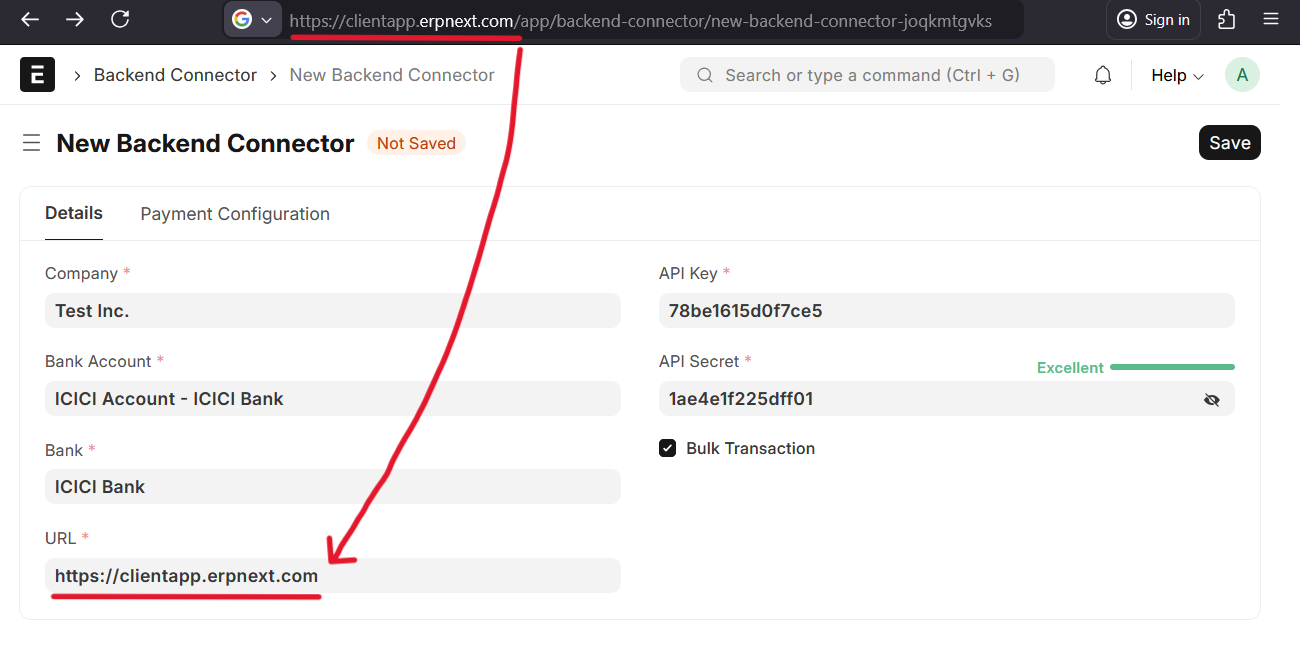
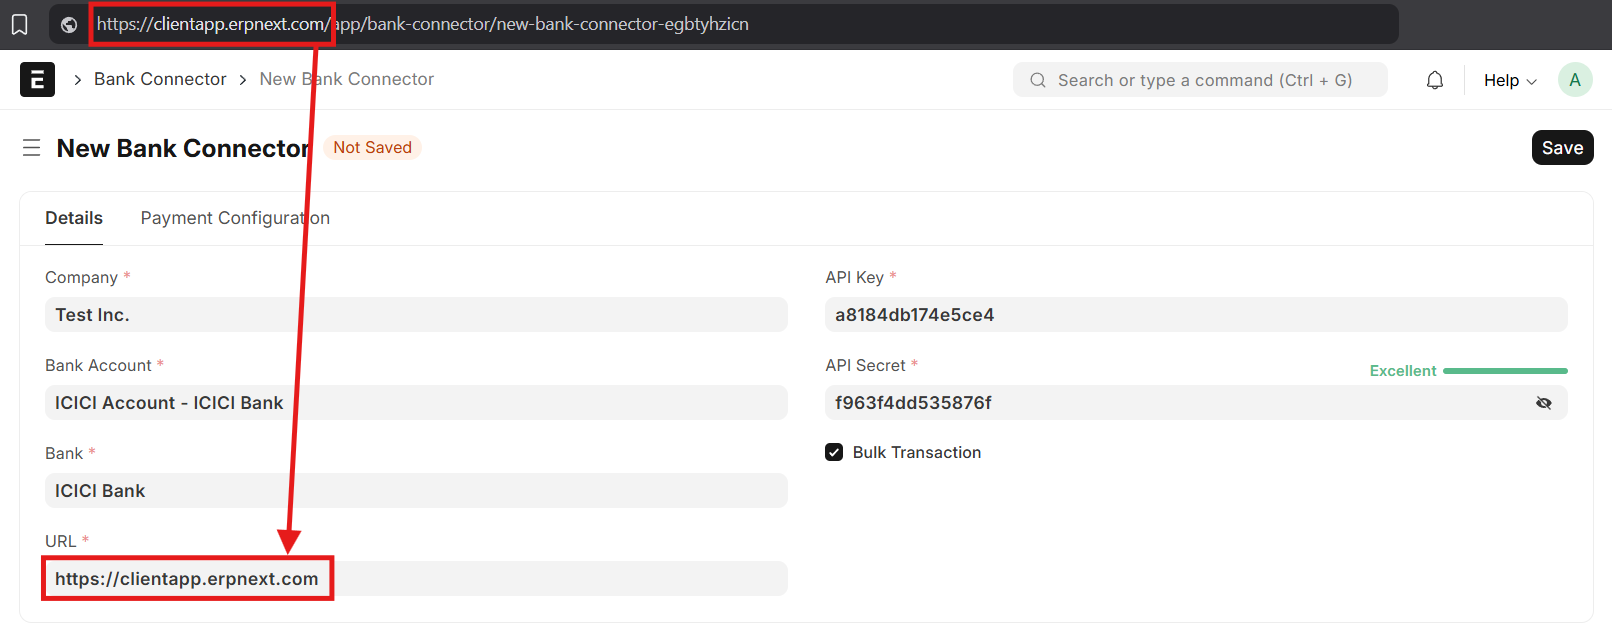
chore: update documentation to revert references to backend connector

diff --git a/docs/client/doctypes.md b/docs/client/doctypes.md
@@ -2,20 +2,22 @@
 
 The main DocTypes for the configuration of India Banking through the frontend are:
 
-## Backend Connector
+## Bank Connector
 
-A Backend Connector is the communication channel between the frontend the backend for a company bank account. This means that a Backend Connector should be created for every company bank account that is used to transact *from*, and there can be **only one** Connector per company bank accont.
+A Bank Connector is the communication channel between the frontend the backend for a company bank account. This means that a Bank Connector should be created for every company bank account that is used to transact *from*, and there can be **only one** Connector per company bank accont.
 
 > [!IMPORTANT]
-> The creation of a Backend Connector is the first step in the bank API integration process, but the prerequisite for this is an account on the backend whose credentials will be used to communicate with it.
+> Despite what the name might imply, a Bank Connector **does not** communicate with the bank's servers. It is only to signify that the Connector is for a Bank account.
 >
-> A user should be created on the **backend** for a Backend Connector to work. A Backend Connector uses Frappe's Token Based Authentication using API Key and API Secret to communicate. [Frappe's guide](https://docs.frappe.io/framework/user/en/api/rest) can be used to generate the API Key and Secret on the backend instance for a user.
+> However, the creation of a Bank Connector is the first step in the bank API integration process, but the prerequisite for this is an account on the backend whose credentials will be used to communicate with it.
 >
-> If the backend and frontend are on the same instance, the credentials of a user created in the instance can be used.
+> A user should be created on the **backend** for a Bank Connector to work. A Bank Connector uses Frappe's Token Based Authentication using API Key and API Secret to communicate. [Frappe's guide](https://docs.frappe.io/framework/user/en/api/rest) can be used to generate the API Key and Secret on the backend instance for a user.
+>
+> If the backend and frontend are on the same instance, the credentials of a user created on that instance can be used.
 
 ### Fields
 
-A Backend Connector uses the following field values to communicate with the backend:
+A Bank Connector uses the following field values to communicate with the backend:
 
 #### Details
 
@@ -25,7 +27,7 @@ A Backend Connector uses the following field values to communicate with the back
 - **URL**: The base URL with the backend instance's hostname or IP address. e.g.: https://backend.myerpserver.com or https://192.168.0.1.
 - **API Key**: The API Key of the user **created on the backend instance** on whose behalf the requests will be done from the frontend.
 - **API Secret**: The API Secret of the user **created on the backend instance** on whose behalf the requests will be done from the frontend.
-- **Bulk Transaction**: If this backend connector is used for bulk transactions or not.
+- **Bulk Transaction**: If this Bank Connector is used for bulk transactions or not.
 
 #### Payment Configuration
 

diff --git a/docs/usage.md b/docs/usage.md
@@ -27,13 +27,16 @@ Once the user is created, generate the API credentials for the user as shown:
 > [!NOTE]
 > It is recommended to create and use a separate user for India Banking API usage, instead of using an existing user in the system, to make sure the audit events are properly tracked.
 
-## Step 3 - Create and Setup the Backend Connector
+## Step 3 - Create and Setup the Bank Connector
 
-A Backend Connector is the communication channel between the frontend the backend for a company bank account. This means that a Backend Connector should be created for every company bank account that is used to transact *from*, and there can be **only one** Connector per company bank accont.
+A Bank Connector is the communication channel between the frontend the backend for a company bank account. This means that a Bank Connector should be created for every company bank account that is used to transact *from*, and there can be **only one** Connector per company bank accont.
 
-To create a new Backend Connector, search for and select "New Backend Connector" in the Awesome Bar (using Ctrl + G).
+> [!IMPORTANT]
+> Despite what the name might imply, a Bank Connector **does not** communicate with the bank's servers. It is only to signify that the Connector is for a Bank account.
 
-In the New Backend Connector form, fill the details as below:
+To create a new Bank Connector, search for and select "New Bank Connector" in the Awesome Bar (using Ctrl + G).
+
+In the New Bank Connector form, fill the details as below:
 
 - **Company**: The company whose bank account is to be used in the transactions by this connector.
 - **Bank Account**: The Bank Account for which this connector is to be created.
@@ -42,11 +45,11 @@ In the New Backend Connector form, fill the details as below:
 - **API Key**: The API Key of the user created above.
 - **API Secret**: The API Secret of the user created above.
 
-![New Backend Connector - Split deployment](assets/backend_connector_split.png "The screen to create a new Backend Connector")
+![New Bank Connector - Split deployment](assets/backend_connector_split.png "The screen to create a new Bank Connector")
 
 In case of a single deployment, the URL should be same as the client app:
 
-![New Backend Connector - Same deployment](assets/backend_connector_same.png "The screen to create a new Backend Connector")
+![New Bank Connector - Same deployment](assets/backend_connector_same.png "The screen to create a new Bank Connector")
 
 ## Step 4 - Install and Setup the India Banking Server (Backend)
 

diff --git a/README.md b/README.md
@@ -73,7 +73,7 @@ An example shared deployment with the dedicated Frappe instance installed on an 
 
 The frontend app is the one that the users/customers interact with through their browsers. As such, almost all of the user-facing actions, buttons, and screens are part of the frontend. **This repository contains the code of the frontend app of India Banking.**
 
-The function of the frontend is to to communicate with the India Banking backend, which could be the same instance as the frontend, as detailed above. This communication is done through the **Backend Connector**. The frontend submits the banking operation requested by the user, such as fetching the balance, making payments, etc., to the backend. The functionality of the backend is outlined in the next section.
+The function of the frontend is to to communicate with the India Banking backend, which could be the same instance as the frontend, as detailed above. This communication is done through the **Bank Connector**. The frontend submits the banking operation requested by the user, such as fetching the balance, making payments, etc., to the backend. The functionality of the backend is outlined in the next section.
 
 The usage of the frontend app is detailed [in the documentation](docs/usage.md).
 
